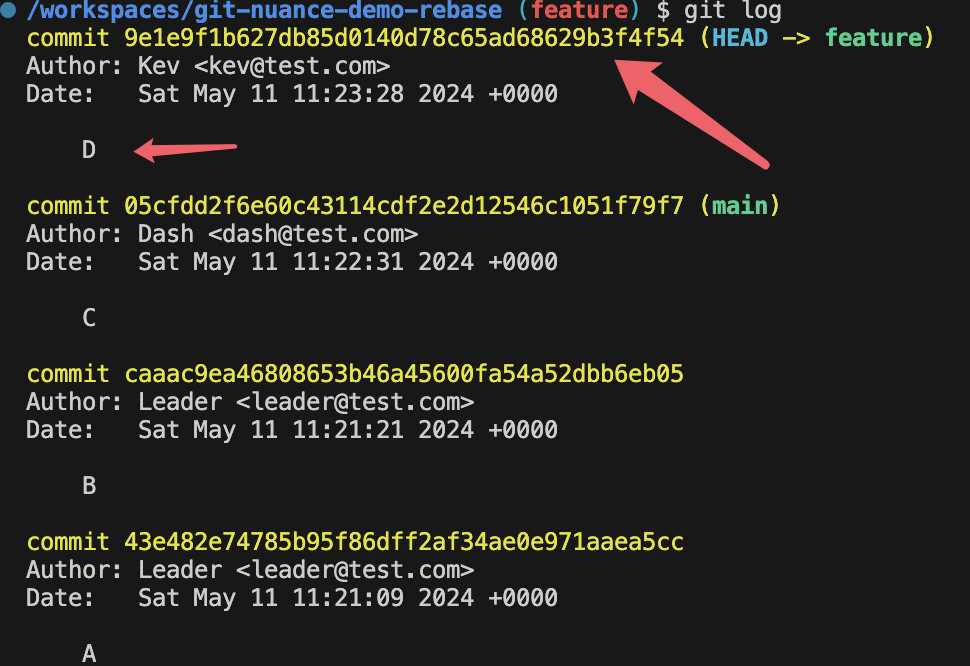
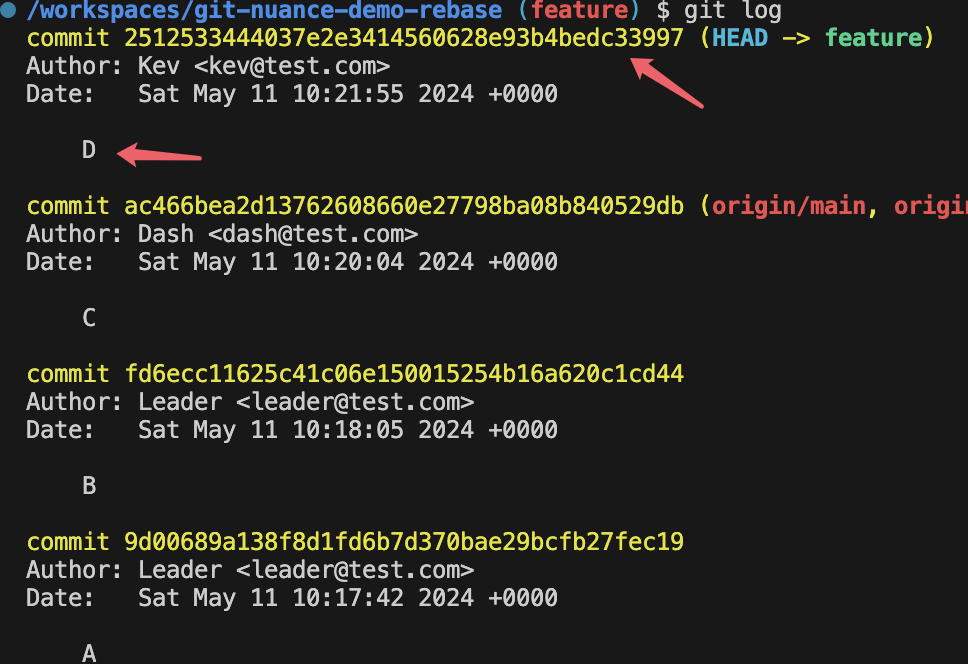
edit demo

diff --git a/README.md b/README.md
@@ -287,7 +287,7 @@ Now the rebase has finished, take a look at the commit history of branch `featur
 
 Pay special attention to the commit ID of `D`.
 
-It's now `9e1e9f1...`, remember what was it before the rebase? It was `58beb1e...`.
+It's now `2512533...`, remember what was it before the rebase? It was `58beb1e...`.
 
 And the changes of this commit.
 
